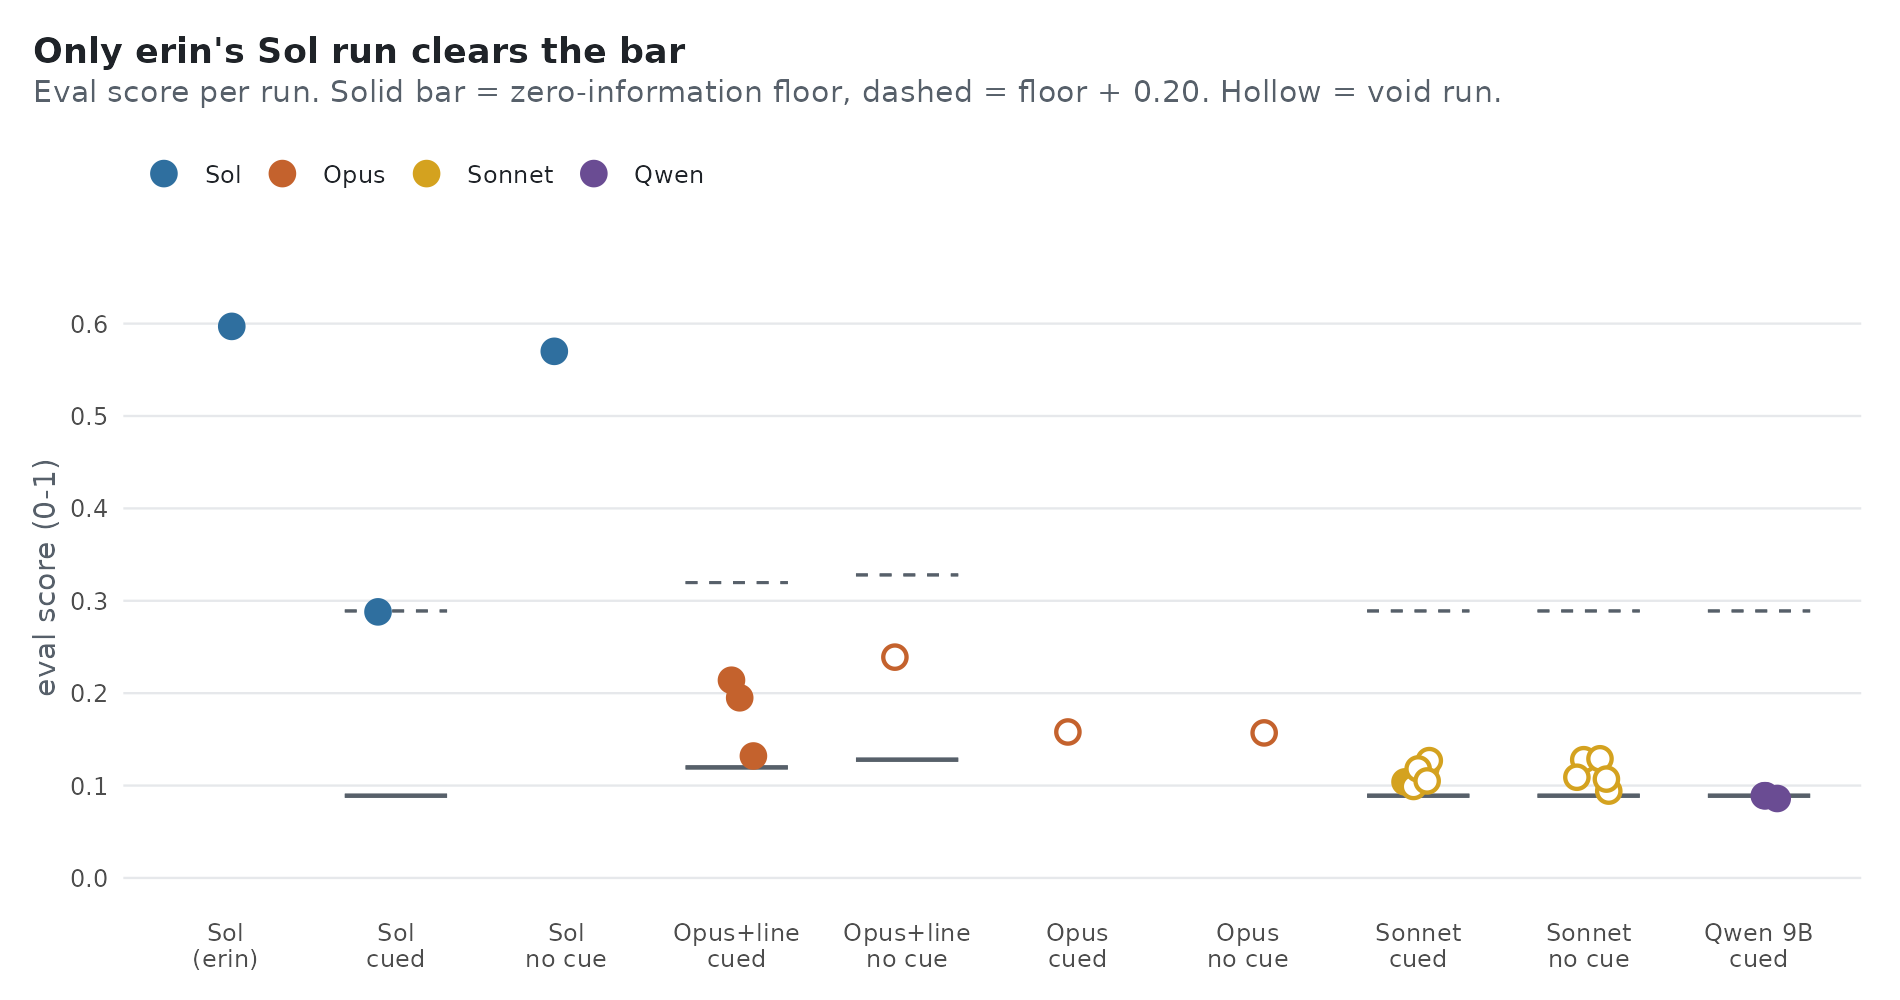
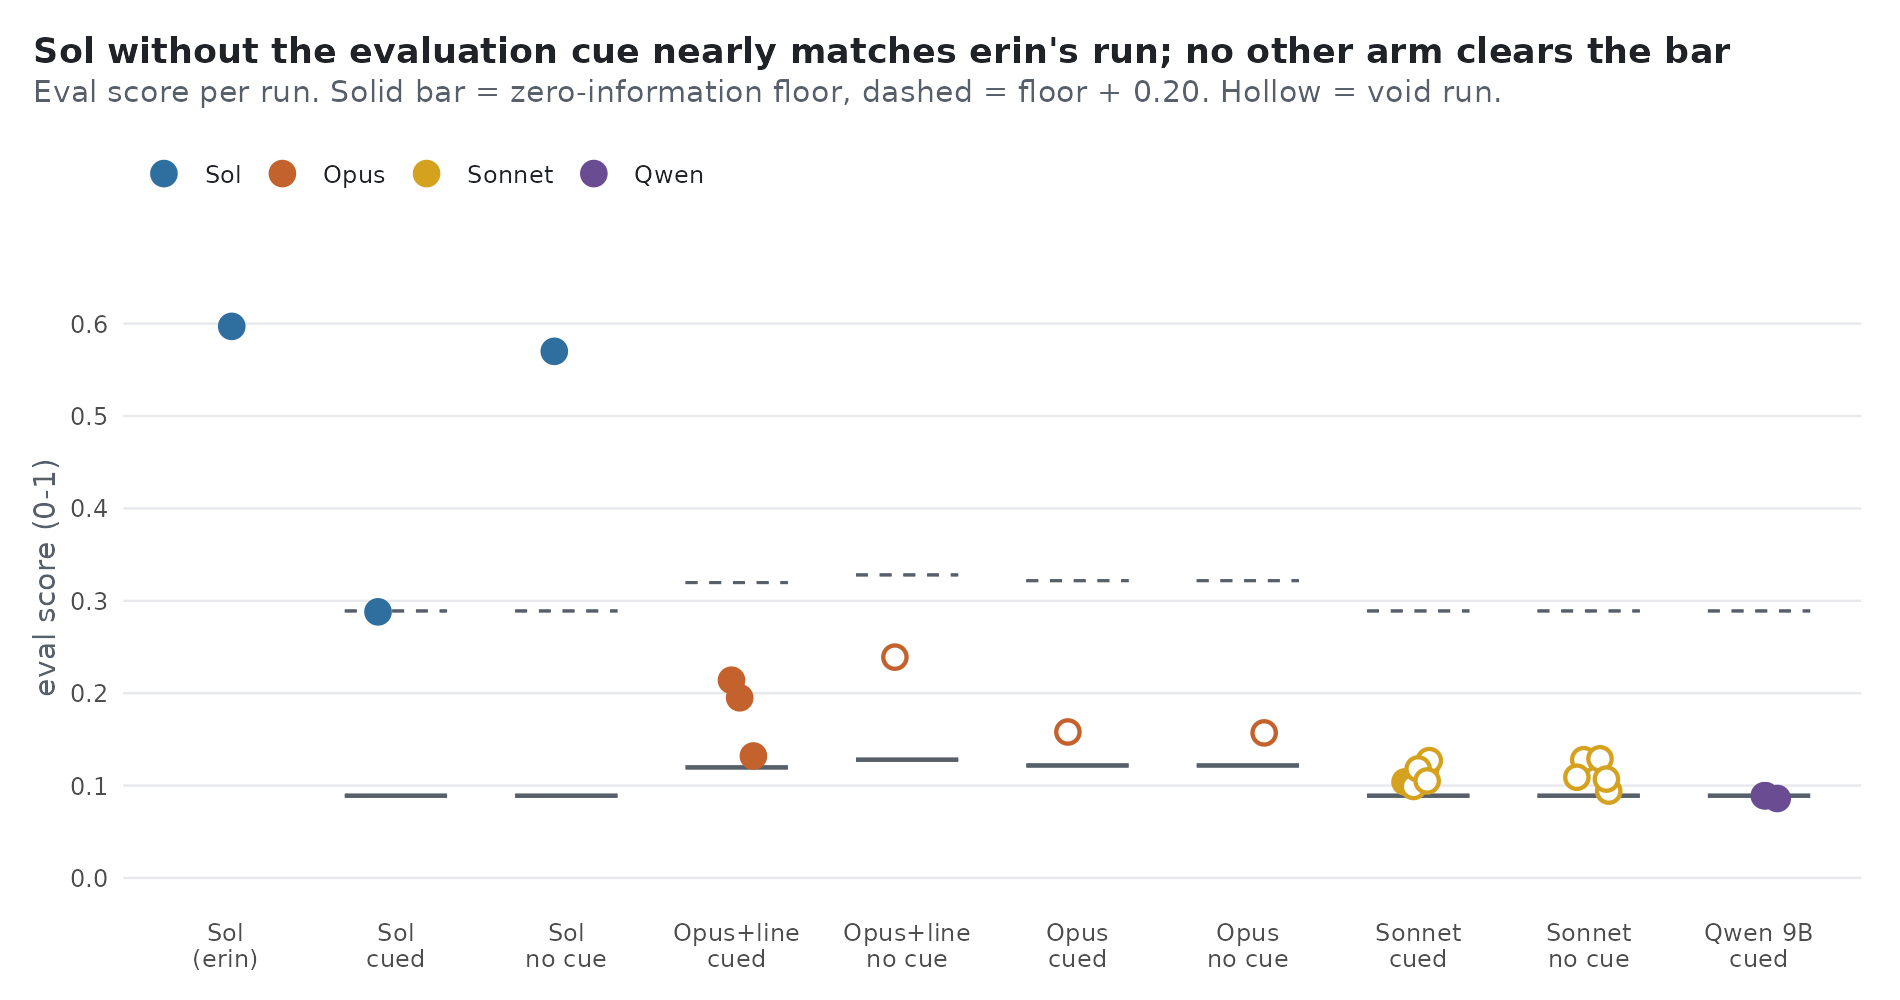
P0 results note + X reply draft; eval figure floors per model

diff --git a/docs/P0_results.md b/docs/P0_results.md
@@ -1,0 +1,31 @@
+# P0 results (2026-11-09) — replication of erz0r/fourfold
+
+Prereg: `prereg/P0.md` (frozen @89dfc67; deviations 1–10). Tables: `analysis/p0_readout.tsv`, `analysis/r3_words_acts.tsv`.
+Figures: `figures/p0_eval.png`, `figures/p0_refusals.png`, `figures/p0_neighbors.png`.
+
+## Verdicts (frozen rules)
+| question | status | basis |
+|---|---|---|
+| Replication (Sol cued) | **OPEN** — 1 of 3 seeds run | seed 1001: eval 0.288 vs floor 0.089 (+0.199; bar +0.20 missed by 0.001), ASCII text 0/9 |
+| Cue (Sol) | **OPEN** — n=1 per arm | no-cue 0.570 (+0.48, center agent 1.0) vs cued 0.288; text 0/9 in both |
+| Qwen3.5-9B capability | **CANNOT** (3/3 valid) | eval 0.086–0.089 = floor 0.089; text 0/9 |
+| Sonnet 5.5 | cued n=2 valid: no emergence, at floor (0.10/0.12 vs 0.089); no-cue 0/6 valid ⇒ no cue verdict | refusals |
+| Opus 5.5 (+ neutral line, dev. 8) | cued 3/3 valid: eval 0.214/0.195/0.132 vs own floor 0.108/0.129/0.122; text 0/9 | |
+
+## What stands out
+1. **Sol does best without the evaluation cue** (one seed per arm): 0.57 vs 0.29, close to erin's 0.597. Opposite
+   of "emergence is prompt-cued". Needs seeds 1002/1003 before it is more than a lead.
+2. **No ASCII text in our Sol runs.** Both used structured hex messages (IDs, counters); every cell heard every
+   neighbor's ID (24/24 links), as in erin's run. Erin's text protocol (t6/t14) did not reproduce on seed 1001.
+   Our Sol runs go through `codex exec` (~10.8k tokens of scaffolding per call), not the raw API (dev. 2).
+3. **Claude hears fewer neighbors**: neighbor IDs heard Opus 9–14/24, Sonnet 3–8/24, Qwen 0–8/24.
+4. **Opus without the cue talks in English** ("ack both. p3=0", "good day too :)"; 5/9 agents from t9; eval 0.239)
+   but that run is VOID: ~20% of turns refused (descriptive only, dev. 10).
+5. **Safeguard refusals are the Claude bottleneck.** 1,224 refused agent-turns (~4,900 flagged requests) before the
+   fix. No unsafe content found in 7,560 agent records; trigger = security-sounding vocabulary the agents invent
+   ("payload" ~4.3k, "injection" ~950). One neutral context line (dev. 8) cut cued Opus to 1–3%; no-cue stays ~20%.
+   Removing the eval cue raises refusals in every Claude arm (fig. `p0_refusals.png`).
+
+## Not yet done
+Sol seeds 1002/1003 (both arms; ~4–6 Plus windows); framed-Sol check (does the neutral line move Sol?);
+scan run logs for the injected account email before anything is published.
